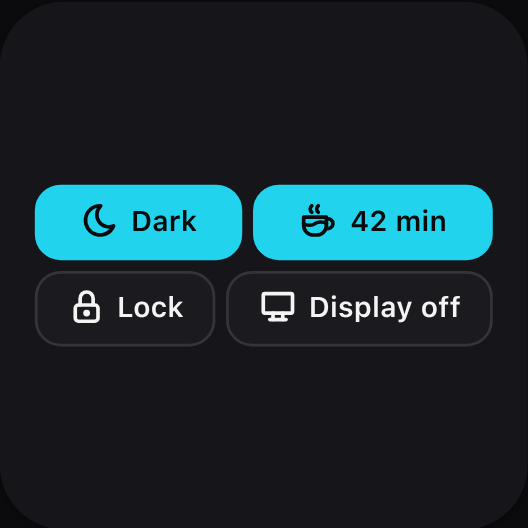
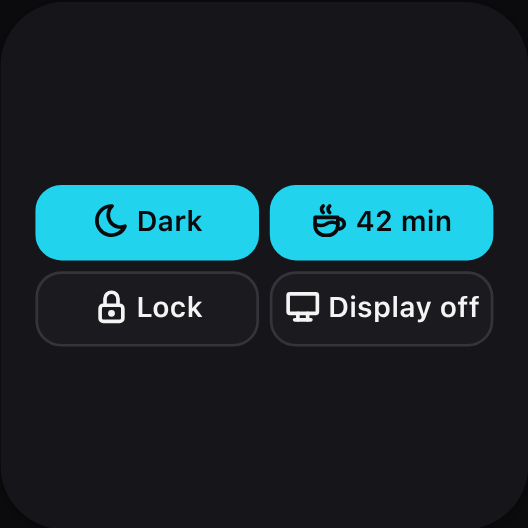
mac-controls, shortcuts: even button grid, shortcuts centred
Buttons in a row are equally wide; the keep awake button reads "Stay up" so it fits an even 2x2 grid. New preview images.

Refs #1, #2

diff --git a/plugins/mac-controls/src/lib.ts b/plugins/mac-controls/src/lib.ts
@@ -50,7 +50,7 @@ export interface Awake { pid: number; /** ms since 1970; 0 = until turned off */
 export const isAwake = (v: unknown): v is Awake => !!v && typeof v === "object" && Number.isInteger((v as Awake).pid) && typeof (v as Awake).until === "number";
 
 export function awakeLabel(a: Awake | null, now: number): string {
-  if (!a) return "Keep awake";
+  if (!a) return "Stay up";
   if (!a.until) return "Awake";
   const min = Math.max(1, Math.ceil((a.until - now) / 60_000));
   return min < 90 ? `${min} min` : `${Math.floor(min / 60)} h ${min % 60} m`;
@@ -68,16 +68,19 @@ export function failure(output: string, fallback: string): string {
 }
 
 
+/** Each button sits in its own growing column, so the two in a row are as wide as each other whatever their words. */
+const cell = (button: CardNode): CardNode => ({ t: "col", grow: true, children: [button] });
+
 export function buildCard(s: { appearance: "Dark" | "Light" | null; awake: Awake | null; minutes: number; now: number; problem?: string }): CardData {
   const dark = s.appearance === "Dark";
   const children: CardNode[] = [
     { t: "row", gap: 1, children: [
-      { t: "button", label: s.appearance === null ? "Dark mode" : dark ? "Dark" : "Light", icon: dark ? "moon" : "sun", action: "dark-mode", args: { mode: "toggle" }, active: dark },
-      { t: "button", label: awakeLabel(s.awake, s.now), icon: "coffee", action: "keep-awake", args: { minutes: s.minutes }, active: !!s.awake },
+      cell({ t: "button", label: s.appearance === null ? "Dark mode" : dark ? "Dark" : "Light", icon: dark ? "moon" : "sun", action: "dark-mode", args: { mode: "toggle" }, active: dark }),
+      cell({ t: "button", label: awakeLabel(s.awake, s.now), icon: "coffee", action: "keep-awake", args: { minutes: s.minutes }, active: !!s.awake }),
     ] },
     { t: "row", gap: 1, children: [
-      { t: "button", label: "Lock", icon: "lock", action: "lock" },
-      { t: "button", label: "Display off", icon: "device-desktop", action: "display-off" },
+      cell({ t: "button", label: "Lock", icon: "lock", action: "lock" }),
+      cell({ t: "button", label: "Display off", icon: "device-desktop", action: "display-off" }),
     ] },
   ];
   // first: when a tile is too small, the deck leaves out the last parts

diff --git a/plugins/shortcuts/src/lib.ts b/plugins/shortcuts/src/lib.ts
@@ -65,13 +65,20 @@ export function buildCard(names: string[], o: { columns?: number; max?: number; 
   const usable = names.filter((n) => n.length <= MAX_NAME);
   const shown = usable.slice(0, max);
   const children: CardNode[] = [];
+  // an even grid: each button in its own growing column, and a short last row keeps the same widths. A card holds at most
+  // 60 parts, so a very long list goes without the columns
+  const rows = Math.ceil(shown.length / columns);
+  const even = columns > 1 && rows * (1 + 2 * columns) <= 54;
   for (let i = 0; i < shown.length; i += columns) {
-    children.push({ t: "row", gap: 1, children: shown.slice(i, i + columns).map((name) => ({ t: "button", label: name, action: "run", args: { name } })) });
+    const buttons: CardNode[] = shown.slice(i, i + columns).map((name) => ({ t: "button", label: name, action: "run", args: { name } }));
+    const cells = even ? Array.from({ length: columns }, (_, k): CardNode => ({ t: "col", grow: true, children: buttons[k] ? [buttons[k]] : [] })) : buttons;
+    children.push({ t: "row", gap: 1, children: cells });
   }
   if (!shown.length && !o.missing?.length) children.push({ t: "text", text: "No shortcuts here yet", tone: "muted" });
   if (usable.length > shown.length) children.push({ t: "text", text: `+${usable.length - shown.length} more`, size: "s", tone: "muted" });
   if (o.missing?.length) children.push({ t: "text", text: `Not found: ${o.missing.join(", ")}`.slice(0, 200), size: "s", tone: "warn" });
-  return { root: { t: "col", gap: 1, children } };
+  // spacers centre the list from top to bottom without centring its text
+  return { root: { t: "col", gap: 1, children: [{ t: "spacer" }, ...children, { t: "spacer" }] } };
 }
 
 export const messageCard = (text: string): CardData => ({ root: { t: "col", gap: 1, align: "center", children: [{ t: "text", text: text.slice(0, 200), size: "s", tone: "warn" }] } });

diff --git a/plugins/mac-controls/test/mac-controls.test.ts b/plugins/mac-controls/test/mac-controls.test.ts
@@ -19,7 +19,7 @@ describe("parsing and commands", () => {
     for (const bad of [0, 1, -5, 2.5]) expect(() => stopCommand(bad)).toThrow();
   });
   test("labels and permission messages", () => {
-    expect(awakeLabel(null, 0)).toBe("Keep awake");
+    expect(awakeLabel(null, 0)).toBe("Stay up");
     expect(awakeLabel({ pid: 9, until: 0 }, 0)).toBe("Awake");
     expect(awakeLabel({ pid: 9, until: 42 * 60_000 }, 0)).toBe("42 min");
     expect(awakeLabel({ pid: 9, until: 150 * 60_000 }, 0)).toBe("2 h 30 m");
@@ -73,7 +73,7 @@ describe("the plugin", () => {
     expect(await h.card()).toContain("10 min");
     await h.act("keep-awake", { minutes: 10 });
     expect(h.alive.size).toBe(0);
-    expect(await h.card()).toContain("Keep awake");
+    expect(await h.card()).toContain("Stay up");
   });
   test("a refresh while caffeinate is still starting does not forget it", async () => {
     const h = harness();
@@ -101,7 +101,7 @@ describe("the plugin", () => {
     const h = harness();
     await h.act("keep-awake", { minutes: 5 });
     h.alive.clear(); // it ended, and the pid may now belong to anything
-    expect(await h.card()).toContain("Keep awake");
+    expect(await h.card()).toContain("Stay up");
     expect(h.store.size).toBe(0);
     await h.act("keep-awake", { minutes: 5 });
     expect(h.calls.some((c) => c.startsWith("kill "))).toBe(false);

diff --git a/plugins/mac-controls/README.md b/plugins/mac-controls/README.md
@@ -7,7 +7,7 @@ Everyday Mac switches on the phone. macOS only.
 | Button | What it does |
 |---|---|
 | Appearance | Shows Dark or Light; tap to switch. The **Dark mode** action can also set one of them. |
-| Keep awake | Keeps the Mac and its display awake for the tile's number of minutes (0: until you turn it off). While it is on, the button shows the time left. Tap again to stop. |
+| Stay up (keep awake) | Keeps the Mac and its display awake for the tile's number of minutes (0: until you turn it off). While it is on, the button shows the time left. Tap again to stop. |
 | Lock | Locks the screen (the system's Control + Command + Q). |
 | Display off | Puts the display to sleep. |
 
